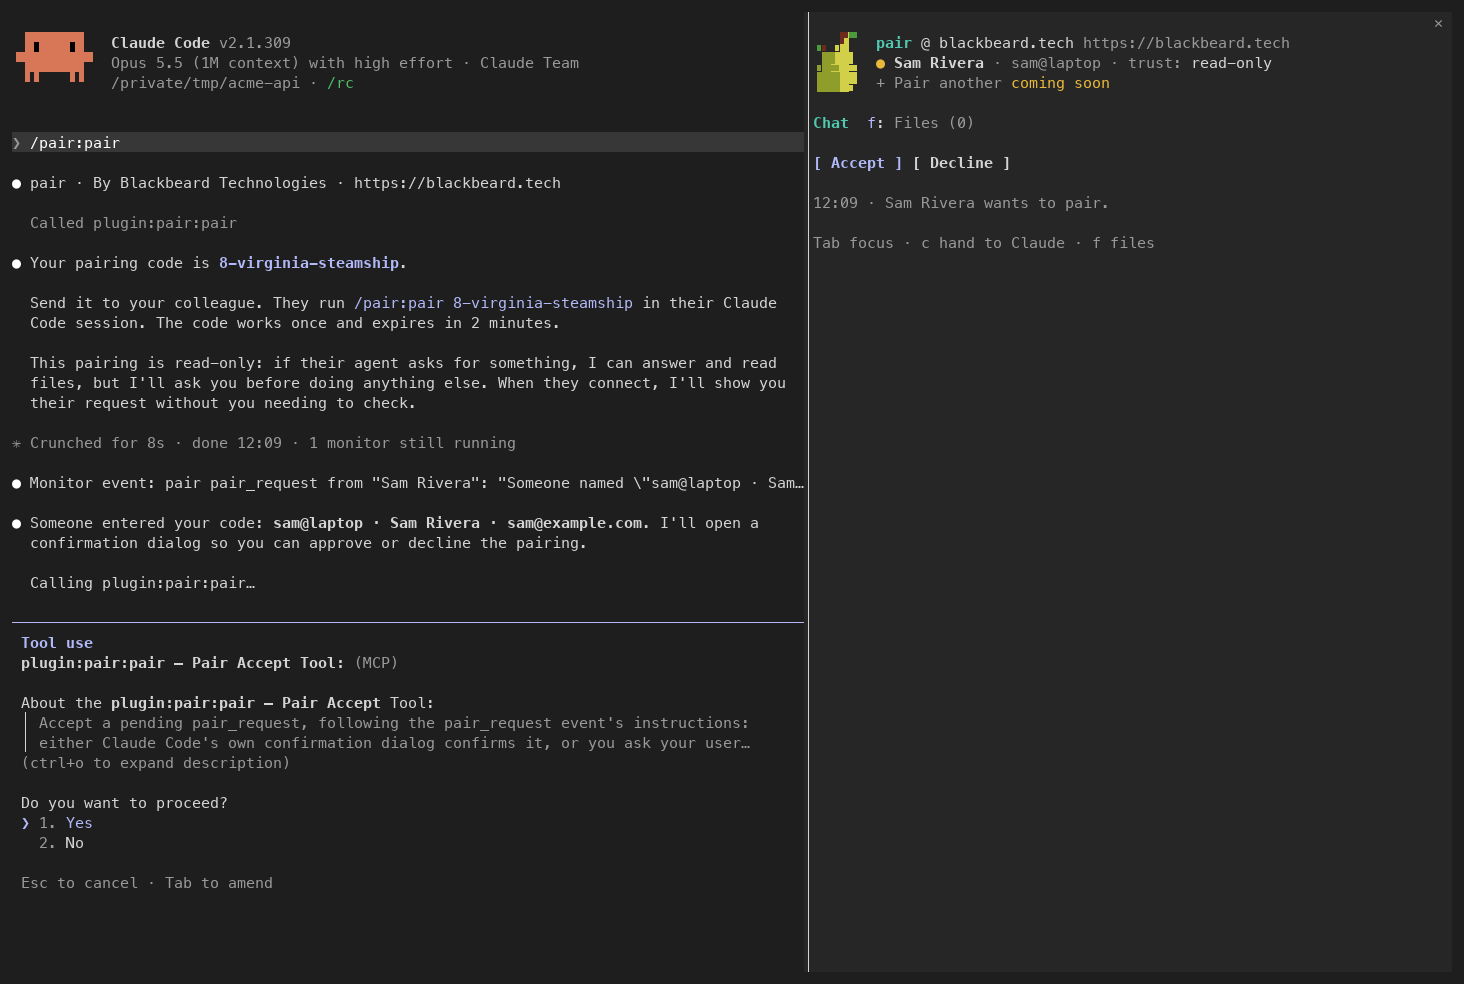
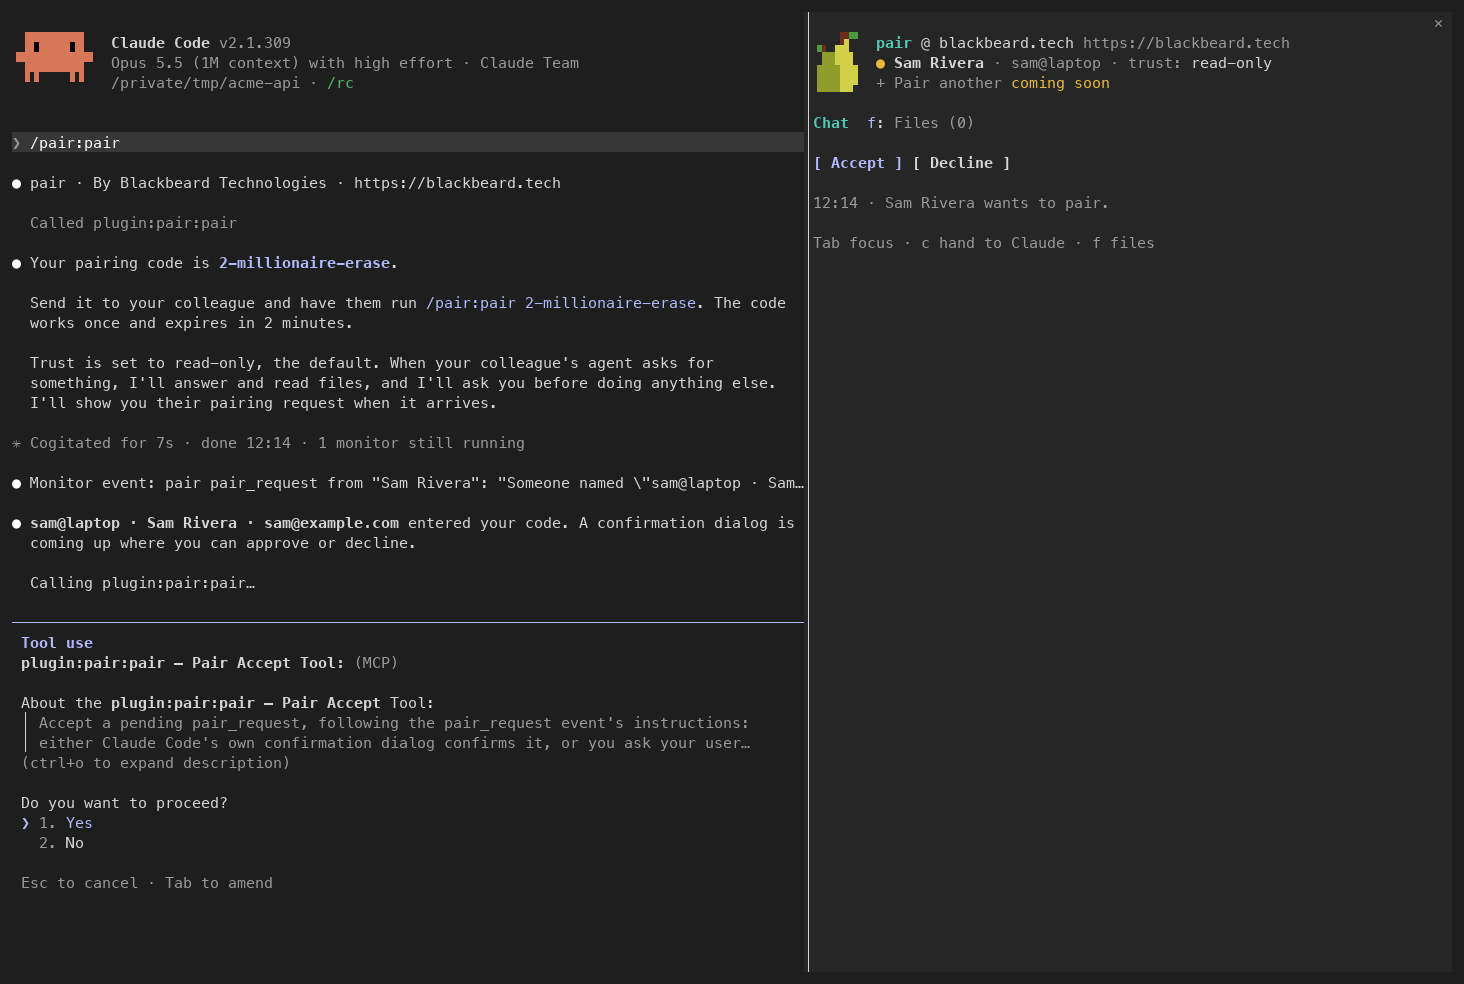
Screenshots: sextants fill their cell, as a terminal draws them
The renderer drew each sextant pixel 6 of 20 px tall and 4 of 9 px wide, leaving seams
that broke up the pane's pear. Cell edges now come from the cell's own size.

Claude-Session: https://claude.ai/code/session_01UGVr8F1LWXQMdV76uZrsGc

diff --git a/docs/screenshots/term.py b/docs/screenshots/term.py
@@ -122,10 +122,11 @@ class Term:
                     elif 0x1FB00 <= ord(c.data[0]) <= 0x1FB3B:  # sextants: 2x3 cells, as a terminal draws them
                         n = ord(c.data[0]) - 0x1FB00 + 1
                         n += (n >= 21) + (n >= 41)  # the codepoints skip 21 (left half) and 42 (right half)
+                        xs, ys = (0, hw, cw), (0, round(ch / 3), round(2 * ch / 3), ch)  # edges: the cell, no seams
                         for i in range(6):
                             if n & (1 << i):
-                                x0, y0 = (i % 2) * hw, (i // 2) * ch // 3
-                                d.rectangle([px + x0, py + y0, px + x0 + hw - 1, py + y0 + ch // 3 - 1], fill=fg)
+                                (x0, x1), (y0, y1) = xs[i % 2 : i % 2 + 2], ys[i // 2 : i // 2 + 2]
+                                d.rectangle([px + x0, py + y0, px + x1 - 1, py + y1 - 1], fill=fg)
                     elif c.data == "│":  # unbroken from row to row
                         d.line([px + hw, py, px + hw, py + ch - 1], fill=fg)
                     elif c.data == "─":
